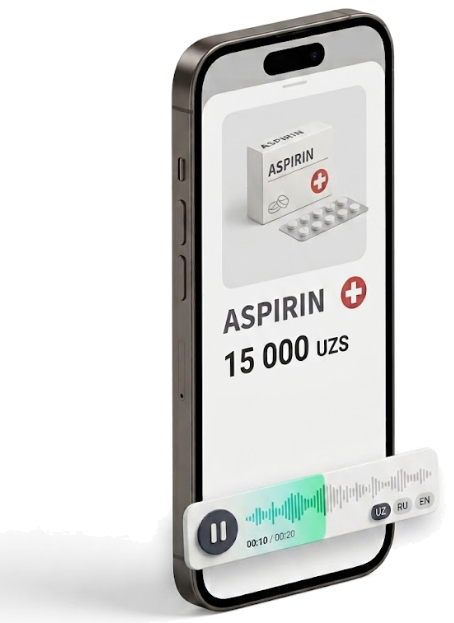
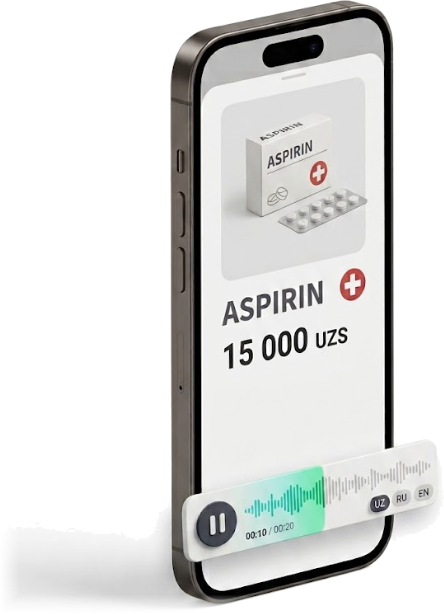
fix(ui): smooth shadow edge blending and enlarge onboarding 3D illustration scale

Changed region(s): [[0.3514, 0.0, 0.9955, 0.9902]]

diff --git a/src/pages/Onboarding.tsx b/src/pages/Onboarding.tsx
@@ -13,9 +13,9 @@ interface Slide {
   illustration: React.ReactNode
 }
 
-// Step 1 Illustration: 3D Phone scanning ASPIRIN box with floating '$' badge
+// Step 1 Illustration: 3D Phone scanning ASPIRIN box with soft floor shadow
 const DrugScannerMockupIllustration = () => (
-  <div className="w-full max-w-[300px] sm:max-w-[340px] h-[255px] sm:h-[290px] flex items-center justify-center relative mx-auto overflow-visible">
+  <div className="w-full max-w-[325px] sm:max-w-[365px] h-[275px] sm:h-[310px] flex items-center justify-center relative mx-auto overflow-visible">
     {/* Soft ambient background glow */}
     <div className="absolute inset-0 bg-gradient-to-b from-emerald-100/60 to-transparent dark:from-emerald-950/20 dark:to-transparent rounded-full blur-2xl -z-10 transform scale-95" />
     <motion.img
@@ -29,9 +29,9 @@ const DrugScannerMockupIllustration = () => (
   </div>
 )
 
-// Step 2 Illustration: Audio Guide Phone Mockup with Voice Waveform Widget
+// Step 2 Illustration: Enlarged Audio Guide Phone Mockup with Seamless Soft Floor Shadow
 const AudioGuideMockupIllustration = () => (
-  <div className="w-full max-w-[300px] sm:max-w-[340px] h-[255px] sm:h-[290px] flex items-center justify-center relative mx-auto overflow-visible">
+  <div className="w-full max-w-[325px] sm:max-w-[365px] h-[275px] sm:h-[310px] flex items-center justify-center relative mx-auto overflow-visible">
     {/* Soft ambient background glow */}
     <div className="absolute inset-0 bg-gradient-to-b from-emerald-100/60 to-transparent dark:from-emerald-950/20 dark:to-transparent rounded-full blur-2xl -z-10 transform scale-95" />
     <motion.img
@@ -47,7 +47,7 @@ const AudioGuideMockupIllustration = () => (
 
 // Step 3 Illustration: Fast Home Delivery Box
 const FastDeliveryBox3DIllustration = () => (
-  <svg width="245" height="245" viewBox="0 0 240 240" fill="none" className="drop-shadow-md mx-auto">
+  <svg width="255" height="255" viewBox="0 0 240 240" fill="none" className="drop-shadow-md mx-auto">
     <defs>
       <linearGradient id="boxFront" x1="0" y1="0" x2="1" y2="1">
         <stop offset="0%" stopColor="#334155" />
@@ -171,8 +171,8 @@ export const Onboarding: React.FC = () => {
         )}
       </div>
 
-      {/* 2. Central Content Block shifted DOWNWARDS with increased top padding & breathing room */}
-      <div className="relative z-10 flex-1 flex flex-col items-center justify-center pt-6 sm:pt-8 pb-2">
+      {/* 2. Central Content Block: Enlarged illustration & centered typography */}
+      <div className="relative z-10 flex-1 flex flex-col items-center justify-center pt-5 sm:pt-7 pb-2">
         <AnimatePresence custom={direction} mode="wait">
           <motion.div
             key={current}
@@ -184,7 +184,7 @@ export const Onboarding: React.FC = () => {
             transition={{ type: 'spring', damping: 25, stiffness: 220 }}
             className="flex flex-col items-center text-center w-full max-w-sm sm:max-w-md mx-auto"
           >
-            {/* Visual Illustration Mockup with soft floor shadows */}
+            {/* Visual Illustration Mockup with soft blended floor shadow */}
             <div className="mb-4 flex items-center justify-center w-full overflow-visible">
               {slide.illustration}
             </div>
@@ -204,7 +204,7 @@ export const Onboarding: React.FC = () => {
 
       {/* 3. Controls: Centered 3 pagination dots & full-width green CTA button */}
       <div className="relative z-10 w-full max-w-sm sm:max-w-md mx-auto flex flex-col items-center gap-5 pt-2 shrink-0">
-        {/* 3 Pagination Dots (Active dot highlighted in accent green) */}
+        {/* 3 Pagination Dots (2nd active green on step 2) */}
         <div className="flex items-center justify-center gap-2 mb-1">
           {SLIDES.map((_, i) => (
             <motion.button
